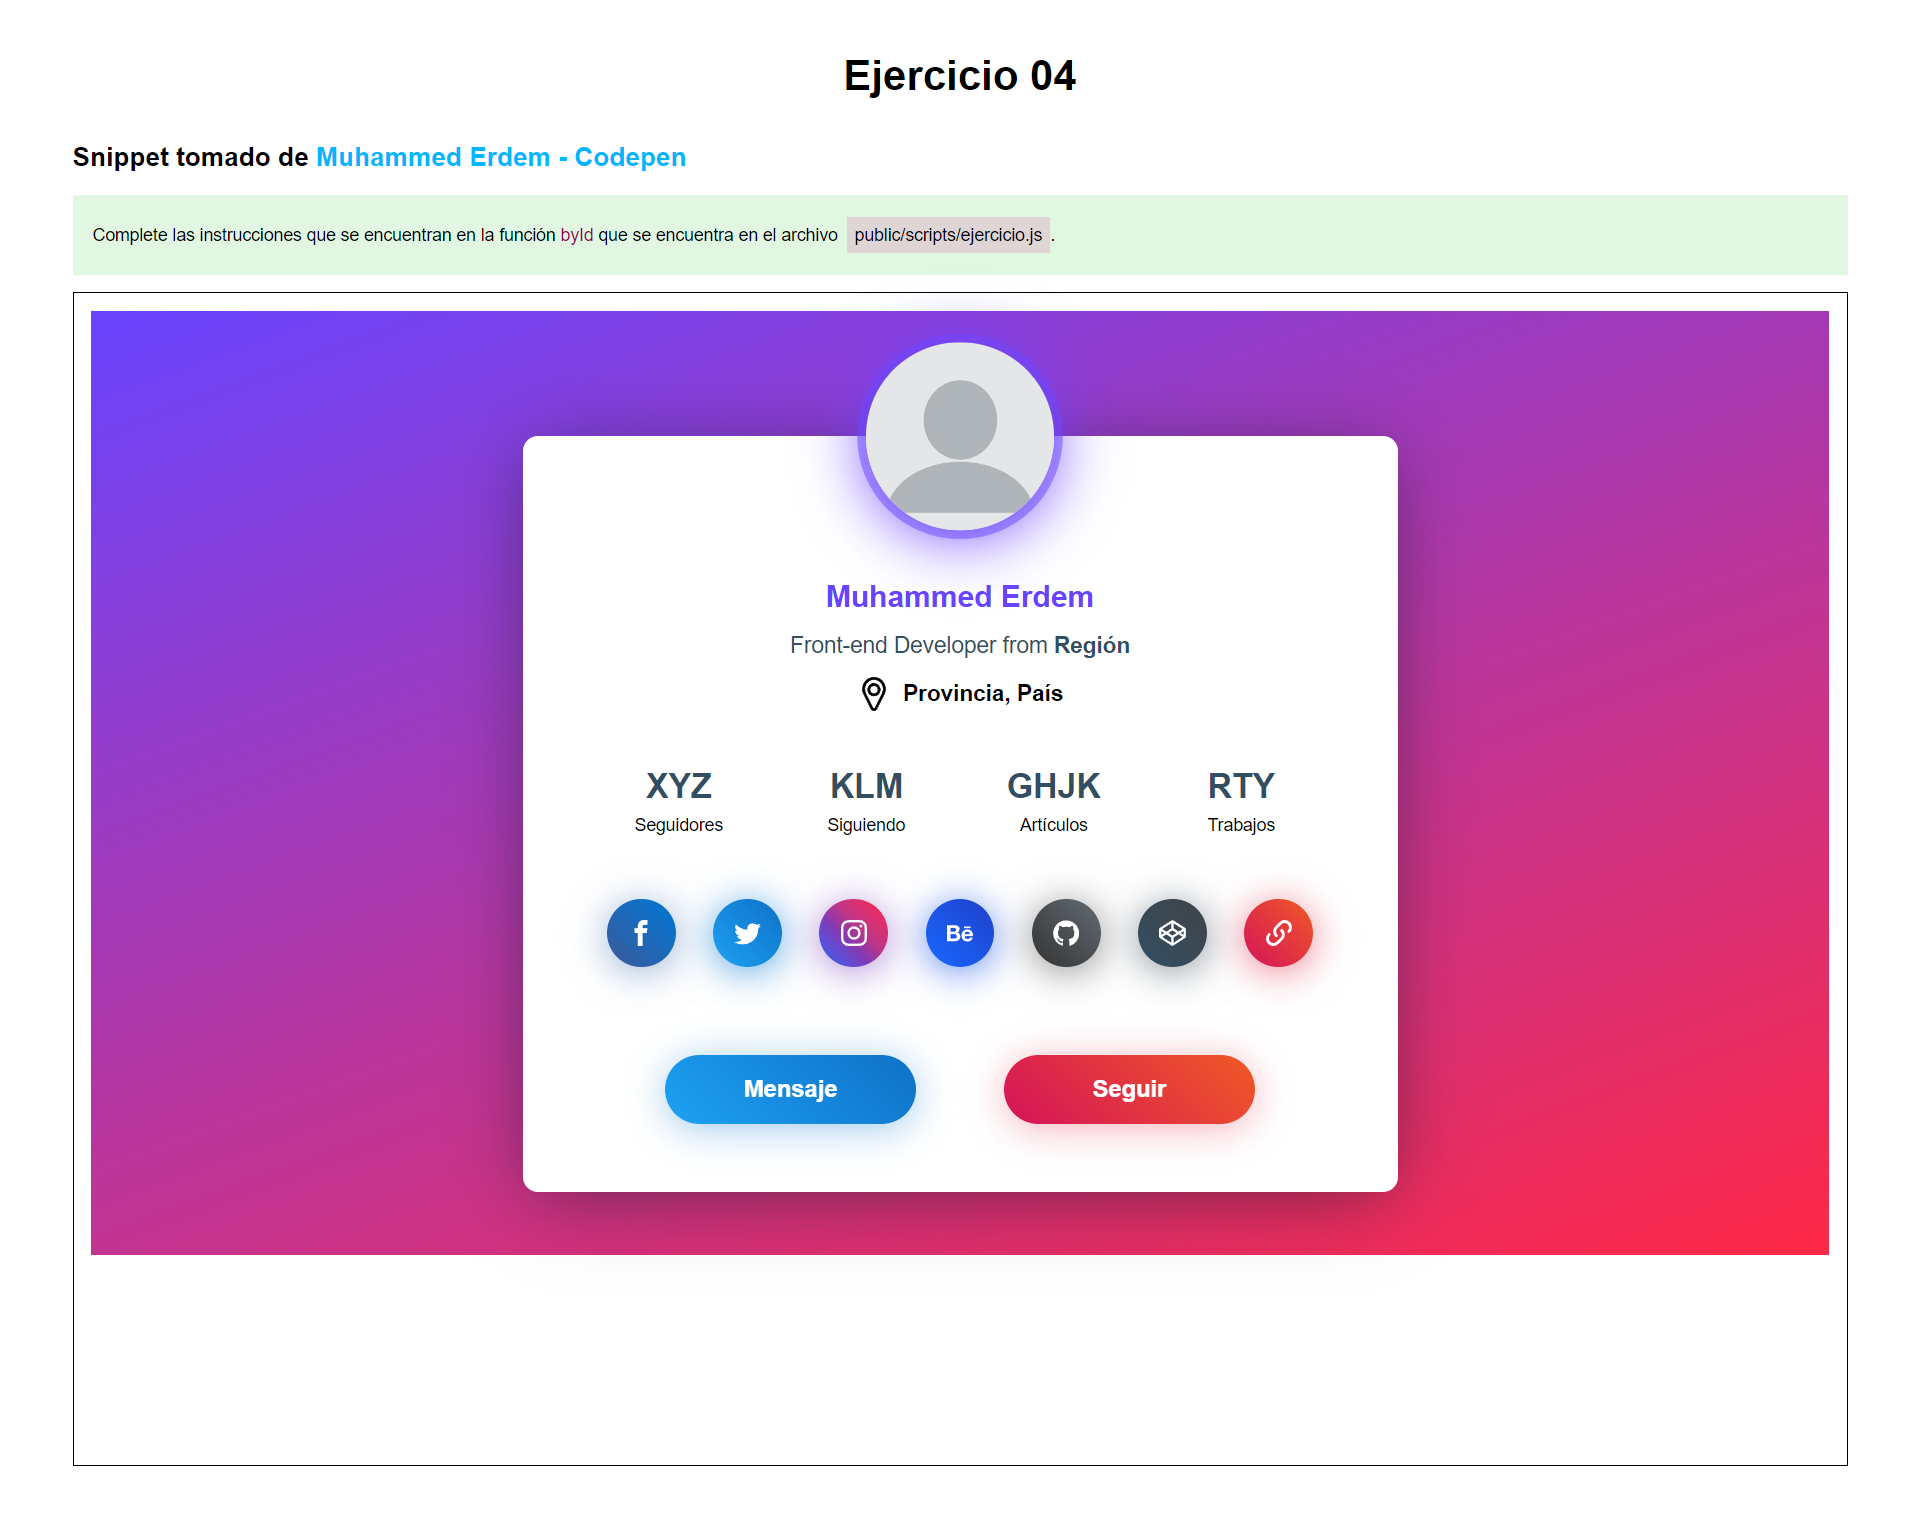
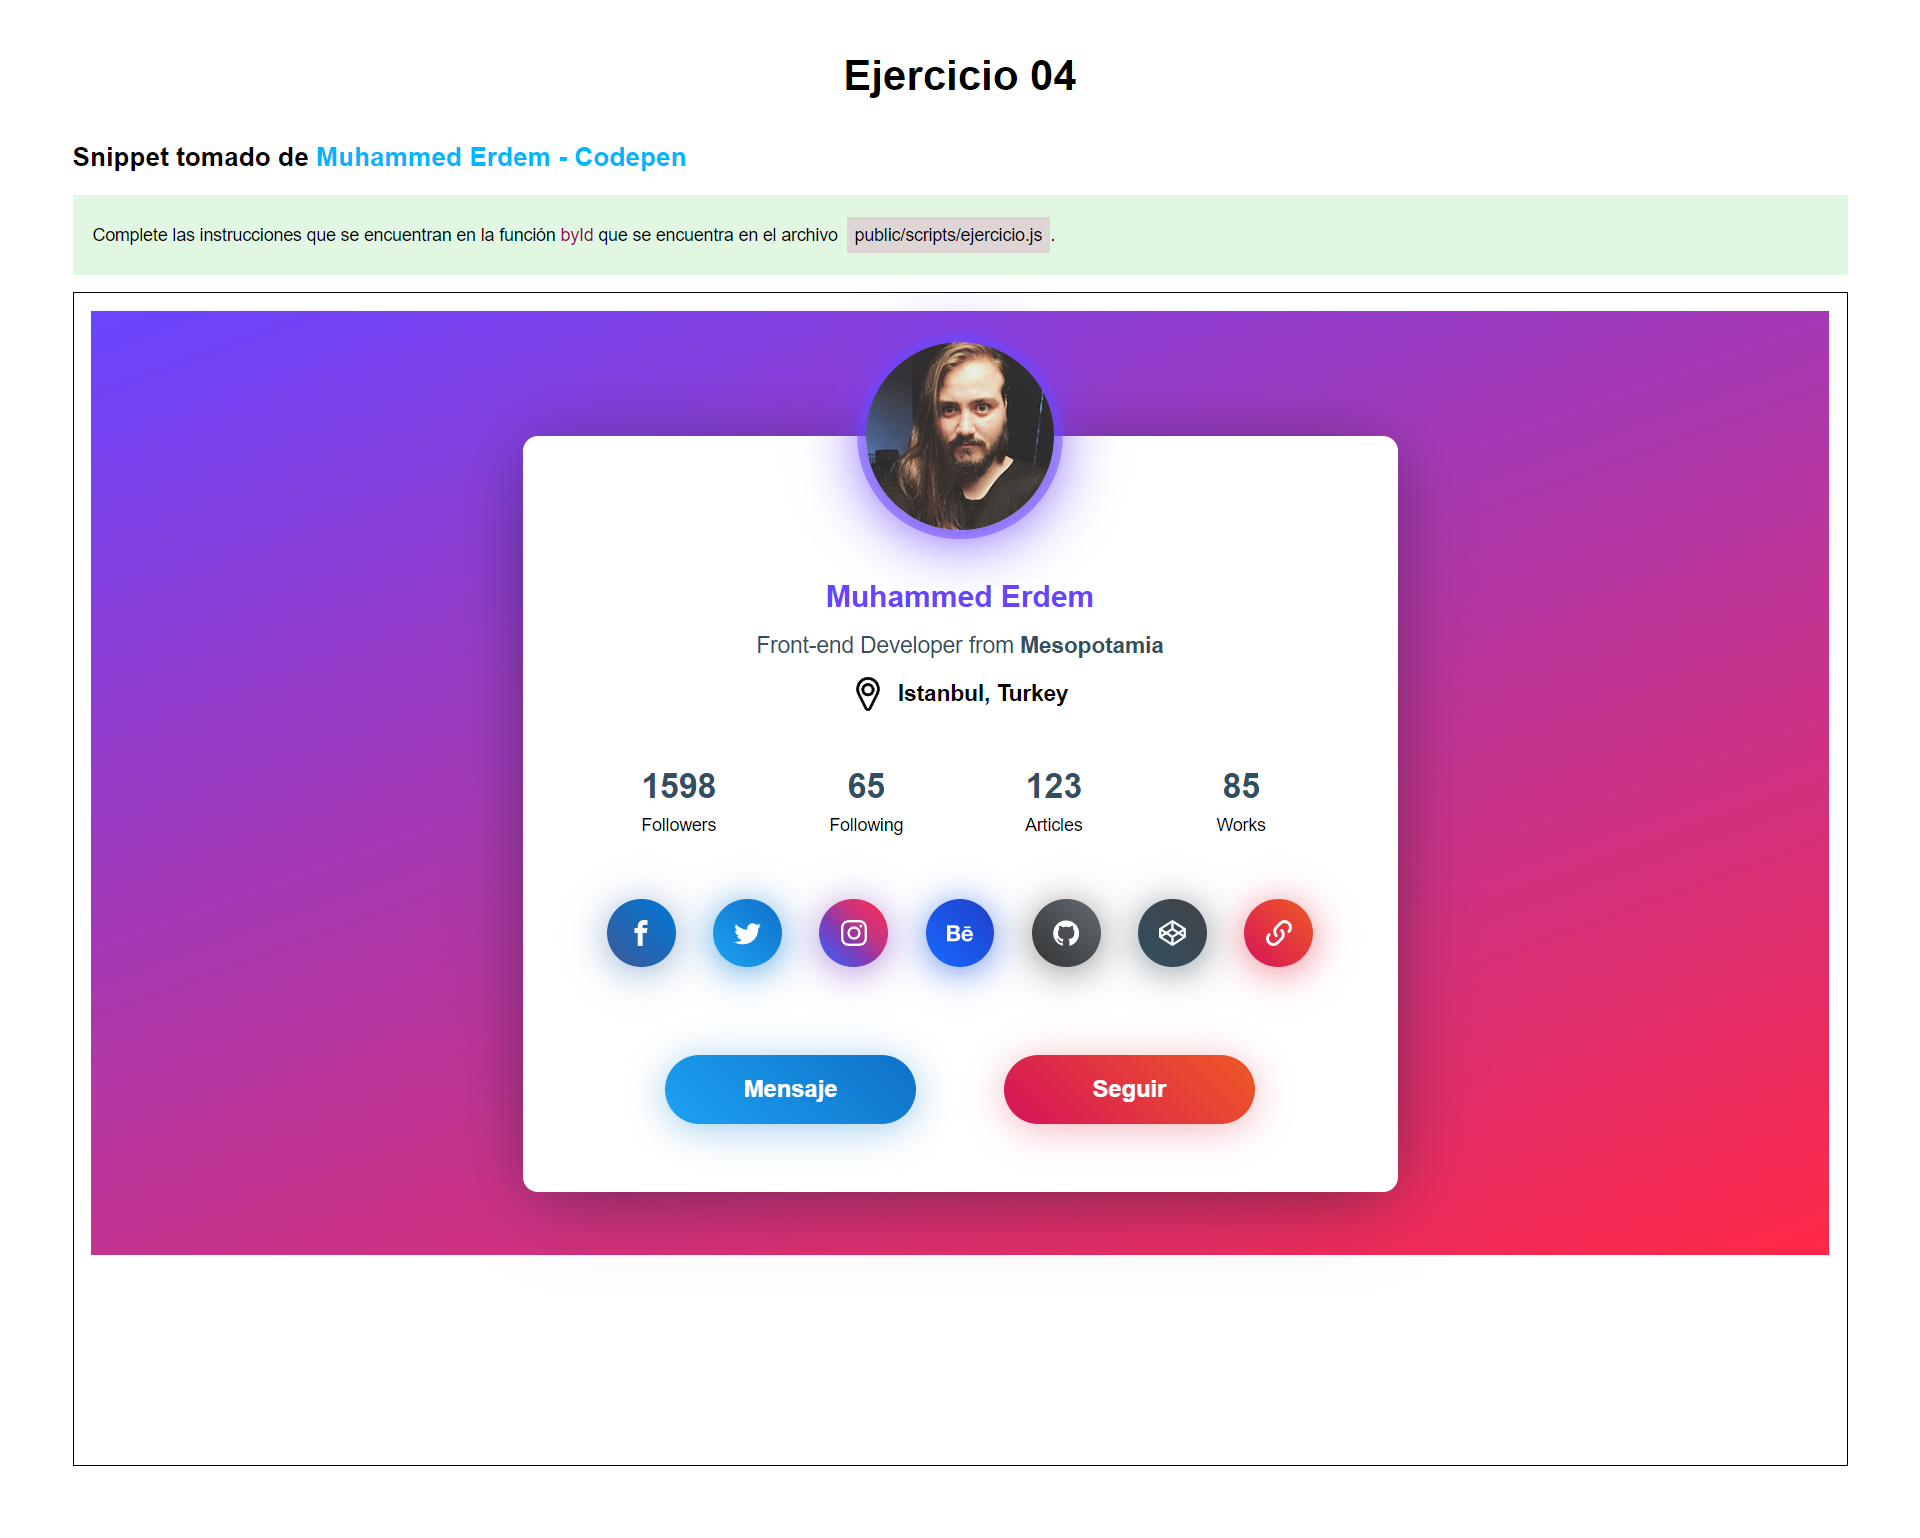
'C04/EJ04'

diff --git a/Capítulo 04/ejercicio04/public/scripts/ejercicio.js b/Capítulo 04/ejercicio04/public/scripts/ejercicio.js
@@ -10,17 +10,112 @@ function byId() {
     let elemento;
     /*
         Obtenga el elemento por identificador y asigne el resultado a la variable elemento
-        Coloque el contenido del elemento con el valor 'Muhammed Erdem'
+        Asigne el contenido (textContent) del elemento con el valor 'Muhammed Erdem'
     */
 
 
     /*Inicio*/
-   
+    
     /*Fin*/
 }
 
+/*
+    Revisar 
+        https://www.javascripttutorial.net/javascript-dom/javascript-getelementsbyclassname/
+        https://www.javascripttutorial.net/javascript-dom/javascript-textcontent/
+*/
+
+function byClass() {
+
+    let arreglo;
+    let elemento;
+
+    /*
+        Obtenga los elementos por la clase 'profile-card-loc__txt' y asigne el resultado a la variable arreglo
+        Asgine el primer valor del arreglo a la variable elemento
+        Coloque el contenido (textContent) del elemento con el valor 'Istanbul, Turkey'
+    */
+
+
+    /*Inicio*/
+    
+    /*Fin*/
+
+}
+
+
+/*
+    Revisar 
+        https://www.javascripttutorial.net/javascript-dom/javascript-getelementsbytagname/
+        https://www.javascripttutorial.net/javascript-dom/javascript-setattribute/
+*/
+
+function byTagName() {
+
+    let arreglo;
+    let elemento;
+
+    /*
+        Obtenga los elementos por la etiqueta 'img' y asigne el resultado a la variable arreglo
+        Asgine el primer valor del arreglo a la variable elemento
+        Coloque el atributo (setAttribute) 'src' del elemento con el valor 'https://res.cloudinary.com/muhammederdem/image/upload/v1537638518/Ba%C5%9Fl%C4%B1ks%C4%B1z-1.jpg'
+    */
+
+
+    /*Inicio*/
+    
+    /*Fin*/
+
+}
+
+
+/*
+    Revisar 
+        https://www.javascripttutorial.net/javascript-dom/javascript-queryselector/
+        https://www.javascripttutorial.net/javascript-dom/javascript-innerhtml/
+*/
+
+function querySelector() {
+
+    let elemento;
+    let textoHTML = `
+          <div class="profile-card-inf__item">
+            <div class="profile-card-inf__title">1598</div>
+            <div class="profile-card-inf__txt">Followers</div>
+          </div>
+
+          <div class="profile-card-inf__item">
+            <div class="profile-card-inf__title">65</div>
+            <div class="profile-card-inf__txt">Following</div>
+          </div>
+
+          <div class="profile-card-inf__item">
+            <div class="profile-card-inf__title">123</div>
+            <div class="profile-card-inf__txt">Articles</div>
+          </div>
+
+          <div class="profile-card-inf__item">
+            <div class="profile-card-inf__title">85</div>
+            <div class="profile-card-inf__txt">Works</div>
+          </div>
+    `
+
+    /*
+        Obtenga el elemento por el selector 'div.profile-card-inf' y asigne el resultado a la variable elemento
+        Coloque el HTML interno (innerHTML) del elemento con el valor de la variable textoHTML
+    */
+
+
+    /*Inicio*/
+    
+    /*Fin*/
+
+}
 
 
 module.exports = {
-    byId: byId
+    byId: byId,
+    byClass: byClass,
+    byTagName: byTagName,
+    querySelector: querySelector
 };

diff --git a/Capítulo 04/ejercicio04/test/ejercicio.test.js b/Capítulo 04/ejercicio04/test/ejercicio.test.js
@@ -44,8 +44,85 @@ describe('Test unitarios para la ruta `/`', function() {
 
             
         })
-          
-    });  
+    }); 
+
+
+    it('getElementsByClassName', function() {
+      return request(app)
+        .get('/scripts/ejercicio.js')
+        .then((response) => {
+
+         let responseClean = response.text.replace(/(\r\n|\n|\r)/gm, '').replace(/ /gm,'')
+         let scriptTexto, scriptEjecutable
+
+         
+         /* Revisión textual */
+         try {
+            scriptTexto = [` arreglo = document.getElementsByClassName('profile-card-loc__txt')`,`elemento = arreglo[0]`, `elemento.textContent = 'Istanbul, Turkey'`]
+            for(let elemento of scriptTexto) {
+              chai.expect(responseClean).to.contain(elemento.replace(/(\r\n|\n|\r)/gm, '').replace(/ /gm,''))
+            }
+            
+          } catch (error) {
+            chai.expect.fail('Revise la petición por clase y la modificación del contenido del elemento');
+            return;
+          }
+
+            
+        })
+    }); 
+
+
+    it('getElementsByTagName', function() {
+      return request(app)
+        .get('/scripts/ejercicio.js')
+        .then((response) => {
+
+         let responseClean = response.text.replace(/(\r\n|\n|\r)/gm, '').replace(/ /gm,'')
+         let scriptTexto, scriptEjecutable
+
+         
+         /* Revisión textual */
+         try {
+            scriptTexto = [`arreglo = document.getElementsByTagName('img')`,`elemento = arreglo[0]`, `elemento.setAttribute('src','https://res.cloudinary.com/muhammederdem/image/upload/v1537638518/Ba%C5%9Fl%C4%B1ks%C4%B1z-1.jpg')`]
+            for(let elemento of scriptTexto) {
+              chai.expect(responseClean).to.contain(elemento.replace(/(\r\n|\n|\r)/gm, '').replace(/ /gm,''))
+            }
+            
+          } catch (error) {
+            chai.expect.fail('Revise la petición por clase y la modificación del contenido del elemento');
+            return;
+          }
+
+            
+        })
+    }); 
+
+
+    it('querySelector', function() {
+      return request(app)
+        .get('/scripts/ejercicio.js')
+        .then((response) => {
+
+         let responseClean = response.text.replace(/(\r\n|\n|\r)/gm, '').replace(/ /gm,'')
+         let scriptTexto, scriptEjecutable
+
+         
+         /* Revisión textual */
+         try {
+            scriptTexto = [`elemento = document.querySelector('div.profile-card-inf')`,` elemento.innerHTML = textoHTML`]
+            for(let elemento of scriptTexto) {
+              chai.expect(responseClean).to.contain(elemento.replace(/(\r\n|\n|\r)/gm, '').replace(/ /gm,''))
+            }
+            
+          } catch (error) {
+            chai.expect.fail('Revise la petición por clase y la modificación del contenido del elemento');
+            return;
+          }
+
+            
+        })
+    }); 
 
 
     

diff --git a/Capítulo 04/ejercicio04/public/scripts/ejecutar.js b/Capítulo 04/ejercicio04/public/scripts/ejecutar.js
@@ -1,5 +1,8 @@
 function ejecutarFunciones() {
     byId()
+    byClass()
+    byTagName()
+    querySelector()
 }
 
 ejecutarFunciones()
